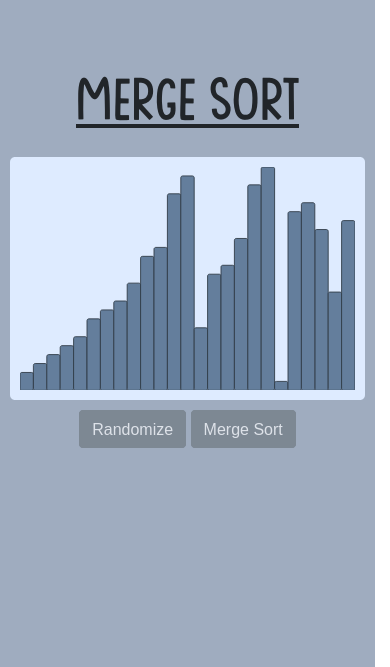
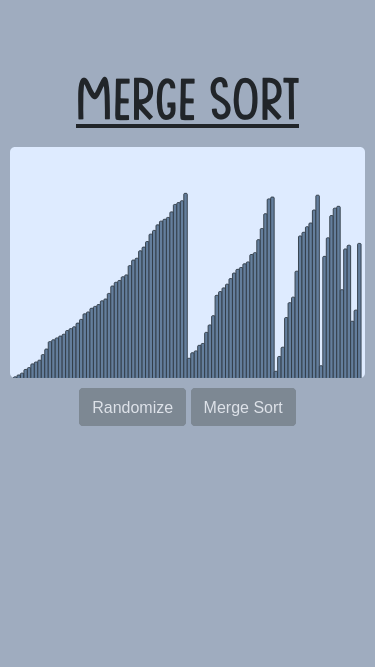
Update readme images, update timing

Changed region(s): [[0.0, 0.2099, 0.9538, 0.6897]]

diff --git a/js/main.js b/js/main.js
@@ -8,7 +8,7 @@ function completed() {
   function task(i) {
     setTimeout(function() {
       svgChildren[i].style.fill = "#69ff6b";
-    }, 20*i);
+    }, 15*i);
   }
 }
 
@@ -44,33 +44,28 @@ function merge(arr, start, end, split) {
 
       for(let i = start; i <= end; i++) {
         arr[i] = _tmpArr[count++];
-        task(i);
-      }
-
-      function task(i) {
-        setTimeout(function() {
-          for(var r = 0; r < toRemove.length; r++) {
-            if(toRemove[r].getAttribute("x") == ((i+1)*3.75).toString()) {
-              break;
-            }
+        // task(i);
+        for(var r = 0; r < toRemove.length; r++) {
+          if(toRemove[r].getAttribute("x") == ((i+1)*3.75).toString()) {
+            break;
           }
-          // now find the one with the correct x value try to remove it
-          try {
-            svg.removeChild(document.getElementById(toRemove[r].id));
-          } catch (e) {
-            console.log("could not find child of svg with id:", toRemove[r].id);
-          }
-          shape = document.createElementNS("http://www.w3.org/2000/svg", "rect");
+        }
+        // now find the one with the correct x value try to remove it
+        try {
+          svg.removeChild(document.getElementById(toRemove[r].id));
+        } catch (e) {
+          console.log("could not find child of svg with id:", toRemove[r].id);
+        }
+        shape = document.createElementNS("http://www.w3.org/2000/svg", "rect");
 
-          shape.setAttribute("x", (i+1)*3.75);
-          shape.setAttribute("y", 250-arr[i]);
-          shape.setAttribute("id", "rect"+i);
-          shape.setAttribute("width", 3.75);
-          shape.setAttribute("rx", 1)
-          shape.setAttribute("ry", 1)
-          shape.setAttribute("height", arr[i]);
-          svg.appendChild(shape);
-        }, 2*i);
+        shape.setAttribute("x", (i+1)*3.75);
+        shape.setAttribute("y", 250-arr[i]);
+        shape.setAttribute("id", "rect"+i);
+        shape.setAttribute("width", 3.75);
+        shape.setAttribute("rx", 1)
+        shape.setAttribute("ry", 1)
+        shape.setAttribute("height", arr[i]);
+        svg.appendChild(shape);
       }
       resolve("Resolved");
     },300);
@@ -83,7 +78,7 @@ async function mergeSort(arr, start, end) {
     return new Promise(resolve => {
       setTimeout(() => {
         resolve("resolved");
-      },100);
+      },50);
     });
   }
   var split = Math.floor((start + end) / 2);
@@ -98,13 +93,13 @@ async function mergeSort(arr, start, end) {
 
 
 function randomize() {
-  var random = [];
-  var _tmp, swapA, swapB;
+  let random = [];
+  let _tmp, swapA, swapB;
 
-  for (var i = 1; i <= 100; i++) {
+  for(let i = 1; i <= 100; i++) {
     random.push(i);
   }
-  for(var i = 0; i < 100; i++) {
+  for(let i = 0; i < 100; i++) {
     // do random swapping to randomize
     swapA = Math.floor(Math.random()*100);
     swapB = Math.floor(Math.random()*100);
@@ -127,12 +122,12 @@ async function main(sort) {
     c = 0;
 
     // first clear the svg if there are any children
-    while (svg.lastChild) {
+    while(svg.lastChild) {
       svg.removeChild(svg.lastChild);
     }
 
     // create each line
-    for(var i = 1; i <= 100; i++) {
+    for(let i = 1; i <= 100; i++) {
       shape = document.createElementNS("http://www.w3.org/2000/svg", "rect");
       shape.setAttribute("x", i*3.75);
       shape.setAttribute("y", 250-randomArr[c]*2);
@@ -154,7 +149,6 @@ async function main(sort) {
     const res = await mergeSort(barHeights, 0, 99);
     document.getElementById("randomBtn").disabled = false;
     document.getElementById("mergeBtn").disabled = false;
-    console.log("done");
     setTimeout(() => {
       completed();
       setTimeout
